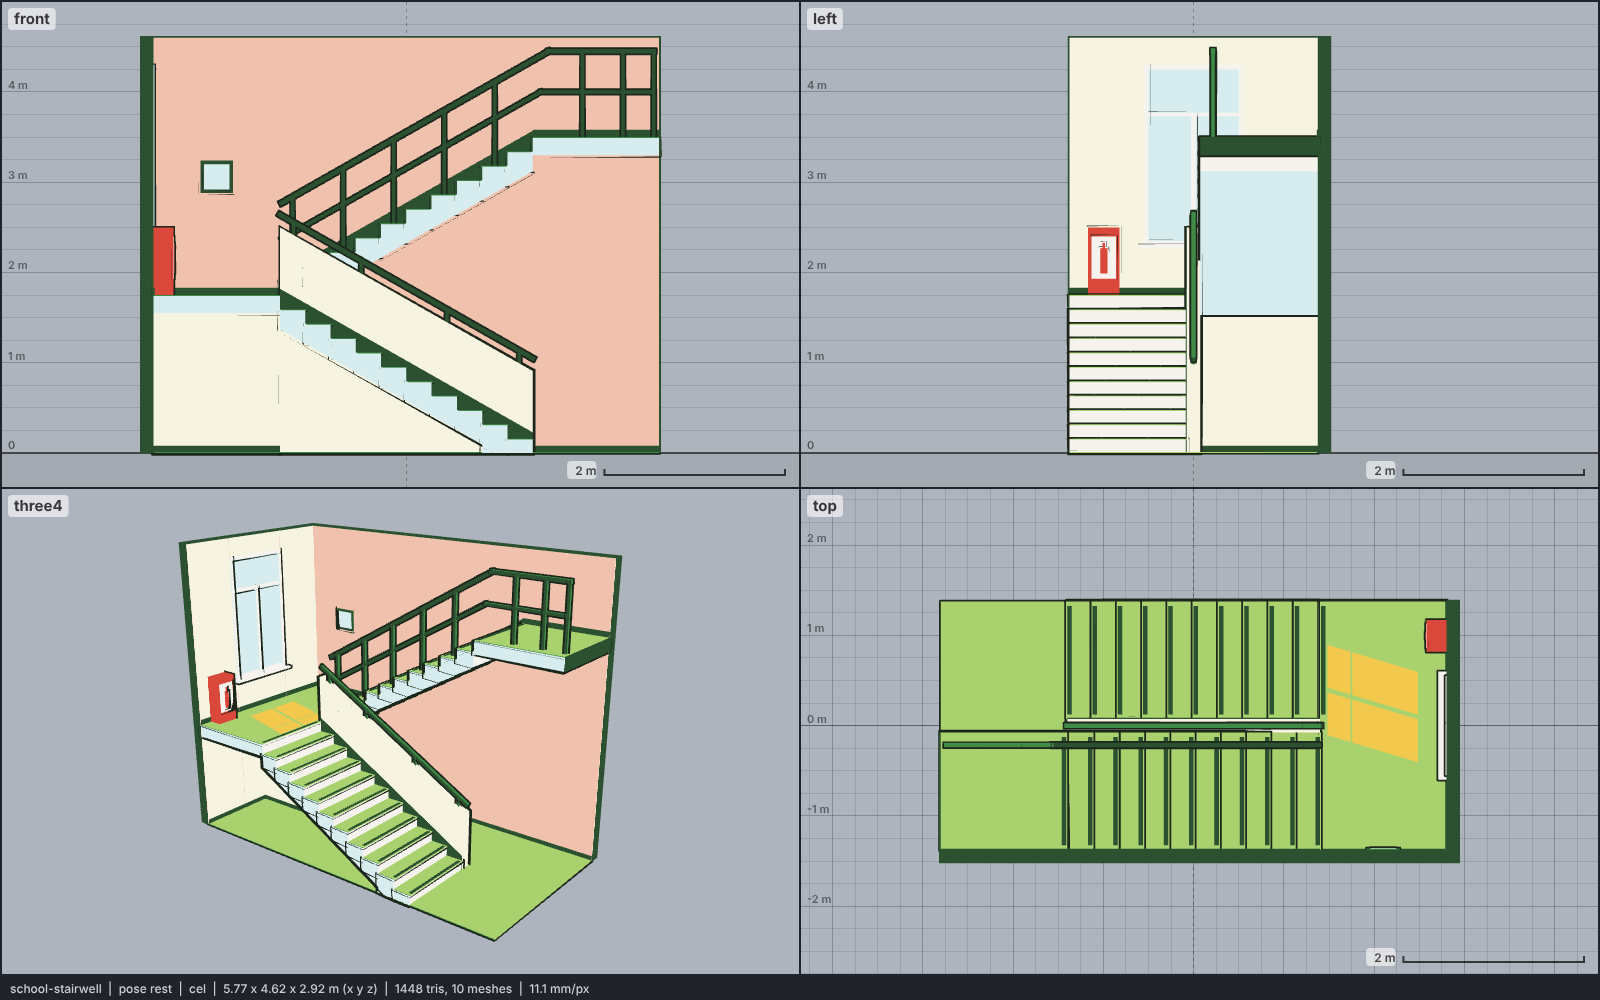
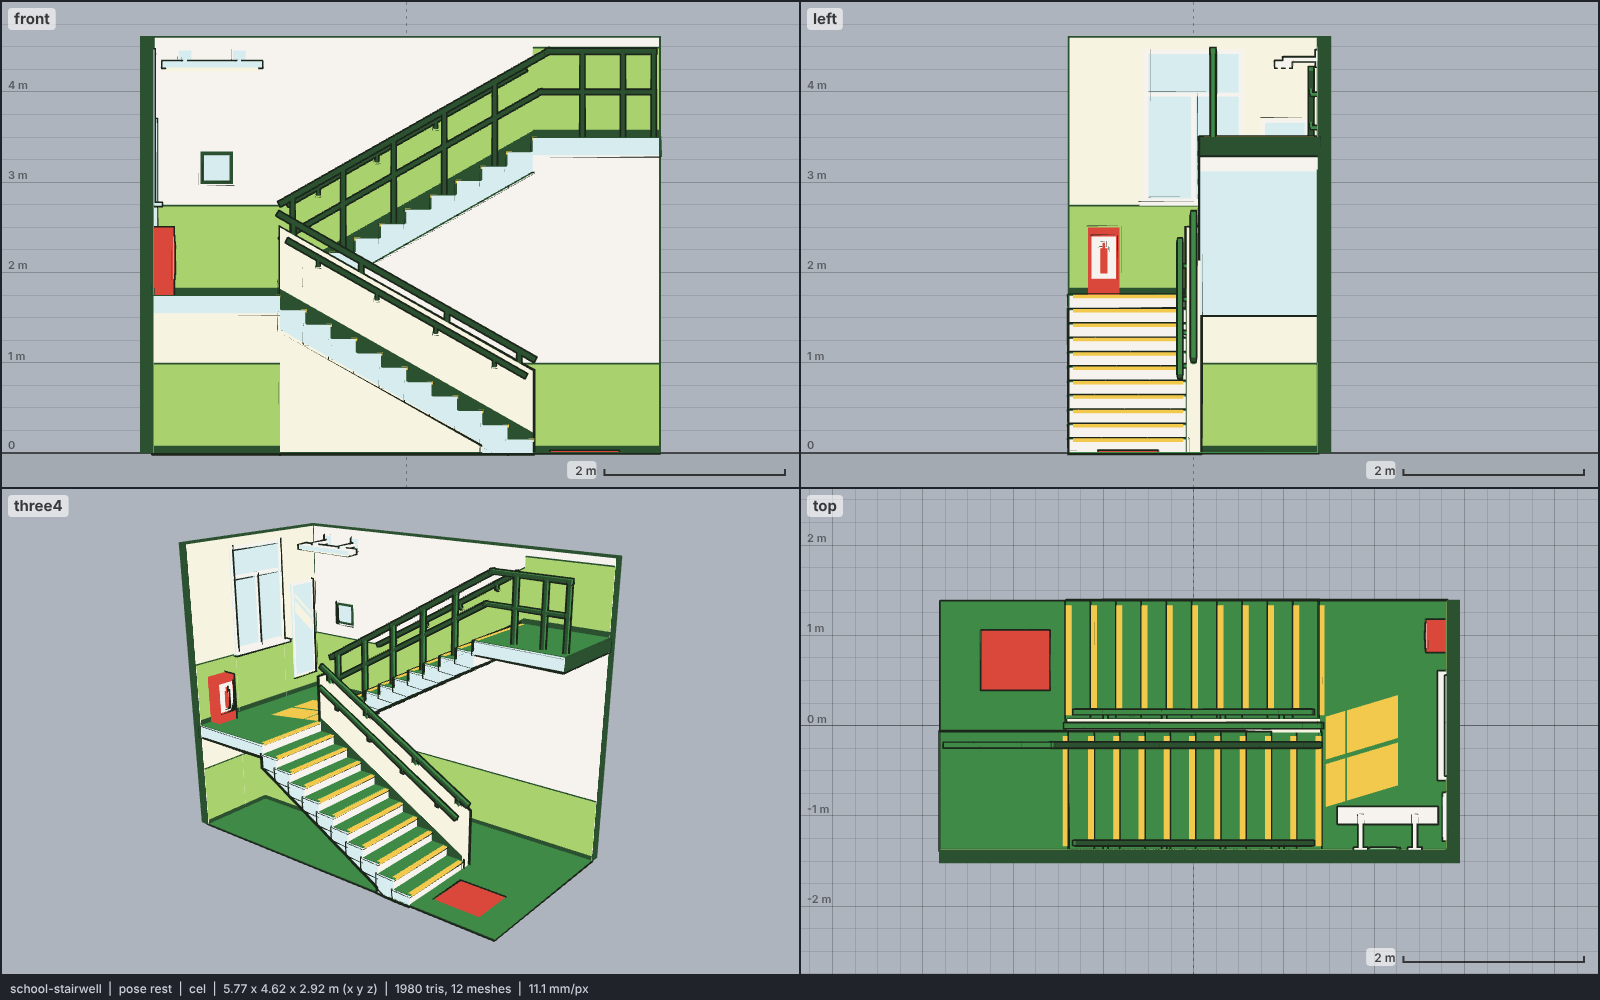
models: school-stairwell, plaster walls with wainscot, wall rails, light, mirror, nosings
Claude-Session: https://claude.ai/code/session_01RarBCdt4E1fNHHaUKaW5GL

diff --git a/models/school-stairwell.js b/models/school-stairwell.js
@@ -7,52 +7,63 @@
 //   STAIR     a switchback in reinforced concrete. The lower flight (+Z half) climbs toward -X from the ground floor
 //             to a full-width mid landing against the -X wall; the upper flight (-Z half, against the back wall) climbs
 //             back toward +X to the upper floor slab. Each flight is a sloped waist slab with a concrete block per
-//             step on it; every tread and the landings carry a green vinyl sheet (a box 1 cm thick) and a dark
-//             non-slip strip at the nosing. Lower risers face the camera (+X), the upper flight shows its sawtooth
-//             side over the parapet, so the zigzag reads in both.
-//   PARAPET   one solid wall between the flights (the well wall): under the landing it stops at the landing soffit,
+//             step on it; every tread and the landings carry a dark green vinyl sheet (a box 1 cm thick) and a yellow
+//             nosing strip that wraps the edge (top and front), so the step edges read from below in the hero too.
+//             Lower risers face the camera (+X), the upper flight shows its sawtooth side over the parapet.
+//   RAILS     one solid wall between the flights (the well wall): under the landing it stops at the landing soffit,
 //             along the lower flight its top follows the nosings 0.75 m up, with a steel handrail on short posts on
 //             it. The upper flight's open edge has a top rail and a mid rail on posts that run on along the upper
-//             floor's edge. Dark skirting bands, flat on the walls and sloped along the flights, draw the floor lines.
+//             floor's edge. Wall-side handrails on L brackets: along the back wall for the upper flight (0.8 m) and a
+//             low second rail on the parapet's face for the lower flight (0.65 m), as school stairs double them.
 //   SHELL     the back wall (-Z) and the -X wall to 4.6 m, both cut there with a dark 2 cm section cap; the +Z and +X
-//             walls and the ceiling are left out. The upper floor slab rests on the back wall, the landing on the
-//             back wall, the -X wall and the well wall: nothing floats.
-//   WINDOW    a tall window in the -X wall over the landing (1.1 x 2.0 m, sill 0.55 m above it): aluminium casing,
-//             a meeting stile and a transom bar, sky glass. Sunlight slants in as four yellow pane patches on the
-//             landing floor (each pane corner projected along one sun direction, sheared to the side).
-//   FITTINGS  a red fire extinguisher box standing on the landing against the -X wall (a pale glass panel with the
-//             red bottle behind it); a blank floor-number plate (green plate, pale face, no lettering) on the back wall.
+//             walls and the ceiling are left out. Pale plaster over a painted green wainscot 1.0 m high, which follows
+//             the floors and steps up the flight, with a thin dark line on top; dark skirting at the floor, and a dark
+//             seam where the upper flight's soffit meets the back wall. The upper floor slab rests on the back wall,
+//             the landing on the back wall, the -X wall and the well wall: nothing floats.
+//   WINDOW    a tall window in the -X wall over the landing (1.1 x 1.7 m, sill on the wainscot line): aluminium
+//             casing, a meeting stile and a transom bar, sky glass. Sunlight falls through it as four yellow pane
+//             patches on the landing floor, each pane corner projected along one sun direction: in through the window
+//             (+X) and down, sheared toward -Z like the model's cel light, so the patches lie on the window's side.
+//   FITTINGS  a red fire extinguisher box standing on the landing against the -X wall (a pale panel, the red bottle
+//             behind it); a full-length safety mirror (frame, sky glass, two pale glints) on the -X wall; a blank
+//             floor-number plate (green plate, pale face, no lettering) and a fluorescent fitting on two brackets out
+//             of the back wall over the landing (steel channel, two glowing tubes); a red mat at the foot of the stair.
 // Proportions (real size, base unit the floor-to-floor height H = 3.5 m): 22 risers of 0.159 (11 per flight),
 //   treads 0.28, flights 1.3 wide either side of a 0.15 well wall; landing 1.4 deep at 1.75; upper floor slab 1.4
 //   deep; walls 0.15 thick to 4.6 (meta.height with the cap). Handrails 0.85 above the nosings, 0.95 on the floor.
 // Options: build(THREE, kit, colors, { height }). height scales the whole set uniformly so the floor-to-floor height
 //   is `height` (default 3.5 m); the lab's meta.height check is against the default.
-// Budget: ~1.4k triangles, 10 meshes.
+// Budget: ~2.0k triangles, 12 meshes.
 // Colours (meadow, the school models' script), base / shade:
-//   walls (back, -X)             moon #f7f3e1 / skin #f0c2ae, threshold 0.45, no hull (caps and skirting draw its
-//                                 edges): the -X wall (dot 0.62) lit, the back wall (0.30) skin, so the corner reads
-//   parapet (well wall)          moon / skin, threshold 0.1, inked (its +Z face stays lit against the skin back wall)
-//   concrete (steps, waist slabs, landing and floor slabs)  sclera #f6f3ee / sky #d7ecef, threshold 0.4 (lower risers
-//                                 lit, the sawtooth sides and soffits sky)
-//   vinyl (treads, landings, floors)  line #a9d16e / iris #3f8a47
-//   rails, posts, plate          iris #3f8a47 / hair #2c5131
-//   strips, skirting, caps       hair #2c5131 flat (they are lines)
-//   window casing, panels        sclera #f6f3ee / sky #d7ecef; glass sky flat; sun patches practical #f2c94c flat
-//   extinguisher box and bottle  accent #d9483b flat
+//   walls (back, -X)             moon #f7f3e1 / sclera #f6f3ee, threshold 0.45, no hull (caps, skirting, the wainscot
+//                                 line and a dark corner seam draw its edges): plaster, the back wall a shade cooler,
+//                                 so the sky soffit of the upper flight stands off it
+//   parapet (well wall)          moon / sclera, threshold 0.1, inked (its +Z face stays lit)
+//   wainscot                     line #a9d16e / iris #3f8a47, threshold 0.1 (lit on both walls), no hull
+//   concrete (steps, waist slabs, landing and floor slabs)  sclera #f6f3ee / sky, threshold 0.4 (lower risers lit,
+//                                 the sawtooth sides and soffits sky)
+//   vinyl (treads, landings, floors)  iris #3f8a47 / hair #2c5131
+//   rails, brackets, plate       iris / hair
+//   skirting, lines, caps, seams hair #2c5131 flat (they are lines)
+//   window casing, mirror frame, light channel, panels  sclera / sky; glass sky flat
+//   nosing strips, sun patches   practical #f2c94c flat; fluorescent tubes and mirror glints moon, glowing
+//   extinguisher box, bottle, mat  accent #d9483b flat
 
 export const meta = {
   name: "school-stairwell",
   height: 4.62,
   script: "meadow",
   colors: {
-    wall: "#f7f3e1", wallShade: "#f0c2ae",
+    wall: "#f7f3e1", wallShade: "#f6f3ee",
+    wainscot: "#a9d16e", wainscotShade: "#3f8a47",
     concrete: "#f6f3ee", concreteShade: "#d7ecef",
-    vinyl: "#a9d16e", vinylShade: "#3f8a47",
+    vinyl: "#3f8a47", vinylShade: "#2c5131",
     rail: "#3f8a47", railShade: "#2c5131",
     dark: "#2c5131",
     frame: "#f6f3ee", frameShade: "#d7ecef",
     glass: "#d7ecef",
-    sun: "#f2c94c",
+    yellow: "#f2c94c",
+    glow: "#f7f3e1",
     red: "#d9483b",
   },
   poses: ["rest"],
@@ -113,6 +124,8 @@ export function build(THREE, kit, colors = meta.colors, opts = {}) {
   const L1 = H / 2;
   const noseLo = (x) => r + (xF - x) * k; // nosing lines
   const noseUp = (x) => L1 + r + (x - xL) * k;
+  const cornUp = (x) => L1 + (x - xL) * k; // inner-corner lines (the waist slab tops)
+  const cornLo = (x) => (xF - x) * k;
 
   // ---------- floors and landing ----------
   box("vinyl", xW, xE, 0, 0.012, zB, zP); // ground floor
@@ -120,8 +133,10 @@ export function build(THREE, kit, colors = meta.colors, opts = {}) {
   box("vinyl", xW, xL, L1 - v, L1, zB, zP);
   box("concrete", xF, xE, H - 0.2, H - v, zB, -zw); // upper floor, on the back wall
   box("vinyl", xF, xE, H - v, H, zB, -zw);
-  box("dark", xL - 0.06, xL - 0.01, L1, L1 + 0.004, zw + 0.05, zP - 0.05); // non-slip strips at the slab edges
-  box("dark", xF + 0.01, xF + 0.06, H, H + 0.004, zB + 0.05, -zw - 0.05);
+  // yellow nosing strips wrap the edge: 5 cm of the top and 3.5 cm down the front, 4 mm proud
+  const ns = 0.05, nd = 0.035, np = 0.004;
+  box("yellow", xL - ns, xL + np, L1 - nd, L1 + np, zw + 0.04, zP - 0.04);
+  box("yellow", xF - np, xF + ns, H - nd, H + np, zB + 0.04, -zw - 0.04);
 
   // ---------- flights ----------
   for (let i = 1; i < N; i++) {
@@ -130,21 +145,22 @@ export function build(THREE, kit, colors = meta.colors, opts = {}) {
     // step blocks reach 5 cm into the waist slab (whose top is the inner-corner line), never through its soffit
     box("concrete", lx0, lx1, i <= 2 ? 0 : lt - r - 0.05, lt - v, zw, zP);
     box("vinyl", lx0, lx1 + 0.012, lt - v, lt, zw, zP);
-    box("dark", lx1 - 0.05, lx1, lt, lt + 0.004, zw + 0.05, zP - 0.05);
+    box("yellow", lx1 - ns, lx1 + 0.012 + np, lt - nd, lt + np, zw + 0.04, zP - 0.04);
     // upper flight, climbing toward +X; the nosing is the -X edge
     const ux0 = xL + (i - 1) * g, ux1 = ux0 + g, ut = L1 + i * r;
     box("concrete", ux0, ux1, ut - r - 0.05, ut - v, zB, -zw);
     box("vinyl", ux0 - 0.012, ux1, ut - v, ut, zB, -zw);
-    box("dark", ux0, ux0 + 0.05, ut, ut + 0.004, zB + 0.05, -zw - 0.05);
+    box("yellow", ux0 - 0.012 - np, ux0 + ns, ut - nd, ut + np, zB + 0.04, -zw - 0.04);
   }
   // waist slabs: top on the inner corners of the steps, 0.22 deep
   const xa = xF - 0.22 / k;
-  slope("concrete", xL, xa, (x) => (xF - x) * k - 0.22, (x) => (xF - x) * k, zw, zP);
-  slope("concrete", xL, xF, (x) => L1 + (x - xL) * k - 0.22, (x) => L1 + (x - xL) * k, zB, -zw);
+  slope("concrete", xL, xa, (x) => cornLo(x) - 0.22, cornLo, zw, zP);
+  slope("concrete", xL, xF, (x) => cornUp(x) - 0.22, cornUp, zB, -zw);
 
   // ---------- walls ----------
   box("wall", xW - tw, xE, 0, YT, zB - tw, zB); // back wall
-  const wz0 = -0.55, wz1 = 0.55, ws = L1 + 0.55, wh = ws + 2.0; // window opening in the -X wall
+  const hw = 1.0; // wainscot height
+  const wz0 = -0.55, wz1 = 0.55, ws = L1 + hw + 0.02, wh = ws + 1.7; // window opening in the -X wall
   box("wall", xW - tw, xW, 0, YT, zB, wz0);
   box("wall", xW - tw, xW, 0, YT, wz1, zP);
   box("wall", xW - tw, xW, 0, ws, wz0, wz1);
@@ -157,6 +173,24 @@ export function build(THREE, kit, colors = meta.colors, opts = {}) {
   box("dark", xE, xE + 0.02, 0, YT + 0.02, zB - tw, zB);
   box("dark", xW - tw, xW, 0, YT + 0.02, zP, zP + 0.02);
   box("dark", xE, xE + 0.02, H - 0.2, H, zB, -zw);
+  // painted wainscot (6 mm proud) with a dark line on top (10 mm proud): on the back wall it follows the ground
+  // floor, the landing, the upper flight and the upper floor; on the -X wall the ground floor and the landing
+  const wp = 0.006, lp = 0.01, lh = 0.02;
+  const bw = (x0, x1, y) => { // back wall, flat
+    box("wainscot", x0, x1, y, y + hw, zB, zB + wp);
+    box("dark", x0, x1, y + hw - lh, y + hw, zB, zB + lp);
+  };
+  bw(xW, xE, 0);
+  bw(xW, xL, L1);
+  bw(xF, xE, H);
+  slope("wainscot", xL, xF, cornUp, (x) => noseUp(x) + hw - r, zB, zB + wp);
+  slope("dark", xL, xF, (x) => noseUp(x) + hw - r - lh, (x) => noseUp(x) + hw - r, zB, zB + lp);
+  for (const y of [0, L1]) { // -X wall
+    box("wainscot", xW, xW + wp, y, y + hw, zB, zP);
+    box("dark", xW, xW + lp, y + hw - lh, y + hw, zB, zP);
+  }
+  box("wainscot", xW, xL, 0, hw, zw, zw + wp); // under the landing, on the well wall
+  box("dark", xW, xL, hw - lh, hw, zw, zw + lp);
   // skirting: flat on the floors, sloped along the flights
   const sk = 0.08, sp = 0.012;
   box("dark", xW, xE, 0, sk, zB, zB + sp);
@@ -165,8 +199,11 @@ export function build(THREE, kit, colors = meta.colors, opts = {}) {
   box("dark", xW, xL, L1, L1 + sk, zB, zB + sp);
   box("dark", xW, xW + sp, L1, L1 + sk, zB, zP);
   box("dark", xF, xE, H, H + sk, zB, zB + sp);
-  slope("dark", xL, xF, (x) => L1 + (x - xL) * k, (x) => noseUp(x) + 0.07, zB, zB + sp);
-  slope("dark", xL, xF, (x) => (xF - x) * k, (x) => noseLo(x) + 0.07, zw, zw + sp);
+  slope("dark", xL, xF, cornUp, (x) => noseUp(x) + 0.07, zB, zB + sp);
+  slope("dark", xL, xF, cornLo, (x) => noseLo(x) + 0.07, zw, zw + sp);
+  // the corner where the two walls meet, and the seam where the upper flight's soffit meets the back wall
+  box("dark", xW, xW + 0.012, 0, YT, zB, zB + 0.012);
+  slope("dark", xL, xF, (x) => cornUp(x) - 0.24, (x) => cornUp(x) - 0.2, zB, zB + sp);
 
   // ---------- rails ----------
   const rw = 0.05, pw = 0.04;
@@ -187,6 +224,20 @@ export function build(THREE, kit, colors = meta.colors, opts = {}) {
   bar("rail", [kneeT, top, zr], [xE - 0.06, top, zr], rw);
   bar("rail", [xL + 0.02, noseUp(xL + 0.02) + 0.45, zr], [kneeM, mid, zr], rw * 0.8);
   bar("rail", [kneeM, mid, zr], [xE - 0.06, mid, zr], rw * 0.8);
+  // wall-side handrails on L brackets (an arm out of the wall, a short upright under the rail)
+  const wallRail = (x0, x1, yOf, zWall, out) => {
+    const zc = zWall + out * 0.075;
+    bar("rail", [x0, yOf(x0), zc], [x1, yOf(x1), zc], 0.045);
+    const n = Math.max(2, Math.round(Math.abs(x1 - x0) / 0.9) + 1);
+    for (let i = 0; i < n; i++) {
+      const x = x0 + ((x1 - x0) * (i + 0.5)) / n, y = yOf(x);
+      post("rail", x, zc, y - 0.08, y, 0.022);
+      const za = Math.min(zWall, zc), zb = Math.max(zWall, zc);
+      box("rail", x - 0.018, x + 0.018, y - 0.1, y - 0.07, za, zb);
+    }
+  };
+  wallRail(xL + 0.1, xF - 0.1, (x) => noseUp(x) + 0.8, zB, 1); // back wall, upper flight
+  wallRail(xF - 0.1, xL + 0.1, (x) => noseLo(x) + 0.65, zw, 1); // parapet face, lower flight
 
   // ---------- window ----------
   const fx0 = xW - tw + 0.02, fx1 = xW + 0.01, fw = 0.05;
@@ -194,17 +245,17 @@ export function build(THREE, kit, colors = meta.colors, opts = {}) {
   box("frame", fx0, fx1, wh - fw, wh, wz0, wz1);
   box("frame", fx0, fx1, ws, wh, wz0, wz0 + fw);
   box("frame", fx0, fx1, ws, wh, wz1 - fw, wz1);
-  const ty = ws + 1.45; // transom bar
+  const ty = ws + 1.2; // transom bar
   box("frame", fx0 + 0.03, fx1 - 0.02, ty - 0.02, ty + 0.02, wz0, wz1);
   box("frame", fx0 + 0.03, fx1 - 0.02, ws, ty, -0.025, 0.025); // meeting stile
   box("frame", xW - 0.02, xW + 0.09, ws - 0.03, ws, wz0 - 0.05, wz1 + 0.05); // sill board
   box("glass", xW - tw / 2 - 0.003, xW - tw / 2 + 0.003, ws, wh, wz0, wz1);
-  // sunlight: each pane projected onto the landing along one slanting direction
-  const sd = [1, -1.9, 0.3];
+  // sunlight through the window: in (+X) and down, sheared toward -Z as the cel light runs, onto the landing
+  const sd = [1, -2.0, -0.3];
   const onFloor = (z, y) => { const t = (y - L1) / -sd[1]; return [xW + t * sd[0], L1 + 0.004, z + t * sd[2]]; };
   for (const [z0, z1] of [[wz0 + fw, -0.025], [0.025, wz1 - fw]])
     for (const [y0, y1] of [[ws + fw, ty - 0.02], [ty + 0.02, wh - fw]])
-      quad("sun", onFloor(z0, y0), onFloor(z1, y0), onFloor(z1, y1), onFloor(z0, y1), [xW + 0.5, L1 - 1, 0]);
+      quad("yellow", onFloor(z0, y0), onFloor(z1, y0), onFloor(z1, y1), onFloor(z0, y1), [xW + 0.5, L1 - 1, 0]);
 
   // ---------- fittings ----------
   // fire extinguisher box standing on the landing against the -X wall, glass panel and the bottle behind it
@@ -213,21 +264,40 @@ export function build(THREE, kit, colors = meta.colors, opts = {}) {
   box("frame", xW + ed, xW + ed + 0.006, L1 + 0.18, L1 + eh - 0.1, ez0 + 0.04, ez1 - 0.04);
   box("red", xW + ed + 0.006, xW + ed + 0.012, L1 + 0.24, L1 + 0.52, 0.955, 1.035);
   box("red", xW + ed + 0.006, xW + ed + 0.012, L1 + 0.52, L1 + 0.58, 0.98, 1.01);
+  // full-length safety mirror on the -X wall, between the window and the back corner
+  const mz0 = -1.27, mz1 = -0.75, my0 = L1 + 0.3, my1 = L1 + 1.95;
+  box("frame", xW, xW + 0.035, my0, my1, mz0, mz1);
+  box("glass", xW + 0.035, xW + 0.041, my0 + 0.04, my1 - 0.04, mz0 + 0.04, mz1 - 0.04);
+  const gx = xW + 0.045, gref = [xW - 1, (my0 + my1) / 2, (mz0 + mz1) / 2];
+  quad("glow", [gx, my0 + 0.75, mz0 + 0.06], [gx, my0 + 0.95, mz0 + 0.06], [gx, my0 + 1.35, mz1 - 0.06], [gx, my0 + 1.15, mz1 - 0.06], gref);
+  quad("glow", [gx, my0 + 1.02, mz0 + 0.06], [gx, my0 + 1.08, mz0 + 0.06], [gx, my0 + 1.48, mz1 - 0.06], [gx, my0 + 1.42, mz1 - 0.06], gref);
   // blank floor-number plate on the back wall over the landing
-  box("rail", -2.28, -1.92, 2.88, 3.24, zB, zB + 0.015);
-  box("frame", -2.24, -1.96, 2.92, 3.2, zB + 0.015, zB + 0.02);
+  box("rail", -2.28, -1.92, 2.98, 3.34, zB, zB + 0.015);
+  box("frame", -2.24, -1.96, 3.02, 3.3, zB + 0.015, zB + 0.02);
+  // fluorescent fitting over the landing: two arms out of the back wall, a steel channel, two glowing tubes
+  const fy = 4.3, fz = zB + 0.38;
+  for (const x of [-2.45, -1.85]) {
+    box("frame", x - 0.07, x + 0.07, fy - 0.02, fy + 0.16, zB, zB + 0.02); // wall plate
+    box("frame", x - 0.02, x + 0.02, fy + 0.04, fy + 0.08, zB, fz); // arm
+  }
+  box("frame", -2.7, -1.6, fy - 0.03, fy + 0.04, fz - 0.09, fz + 0.09);
+  for (const dz of [-0.045, 0.045]) box("glow", -2.66, -1.64, fy - 0.07, fy - 0.03, fz + dz - 0.018, fz + dz + 0.018);
+  // a mat at the foot of the stair
+  box("red", xF + 0.2, xF + 0.95, 0.012, 0.024, 0.4, 1.05);
 
   // ---------- meshes ----------
   const MAT = {
     wall: [c.wall, c.wallShade, 0.45, false, 3], // caps and skirting draw its edges: no seams round the window
     parapet: [c.wall, c.wallShade, 0.1, true, 3],
+    wainscot: [c.wainscot, c.wainscotShade, 0.1, false, 2],
     concrete: [c.concrete, c.concreteShade, 0.4, true, 3],
     vinyl: [c.vinyl, c.vinylShade, 0.5, true, 2],
     rail: [c.rail, c.railShade, 0.35, true, 2],
     dark: [c.dark, c.dark, 0.1, false, 2],
     frame: [c.frame, c.frameShade, 0.35, true, 2],
     glass: [c.glass, c.glass, 0.1, false, 2],
-    sun: [c.sun, c.sun, -0.25, false, 2],
+    yellow: [c.yellow, c.yellow, -0.25, false, 2],
+    glow: [c.glow, c.glow, -0.25, false, 2],
     red: [c.red, c.red, 0.1, true, 2],
   };
   for (const [key, arr] of Object.entries(soups)) {
